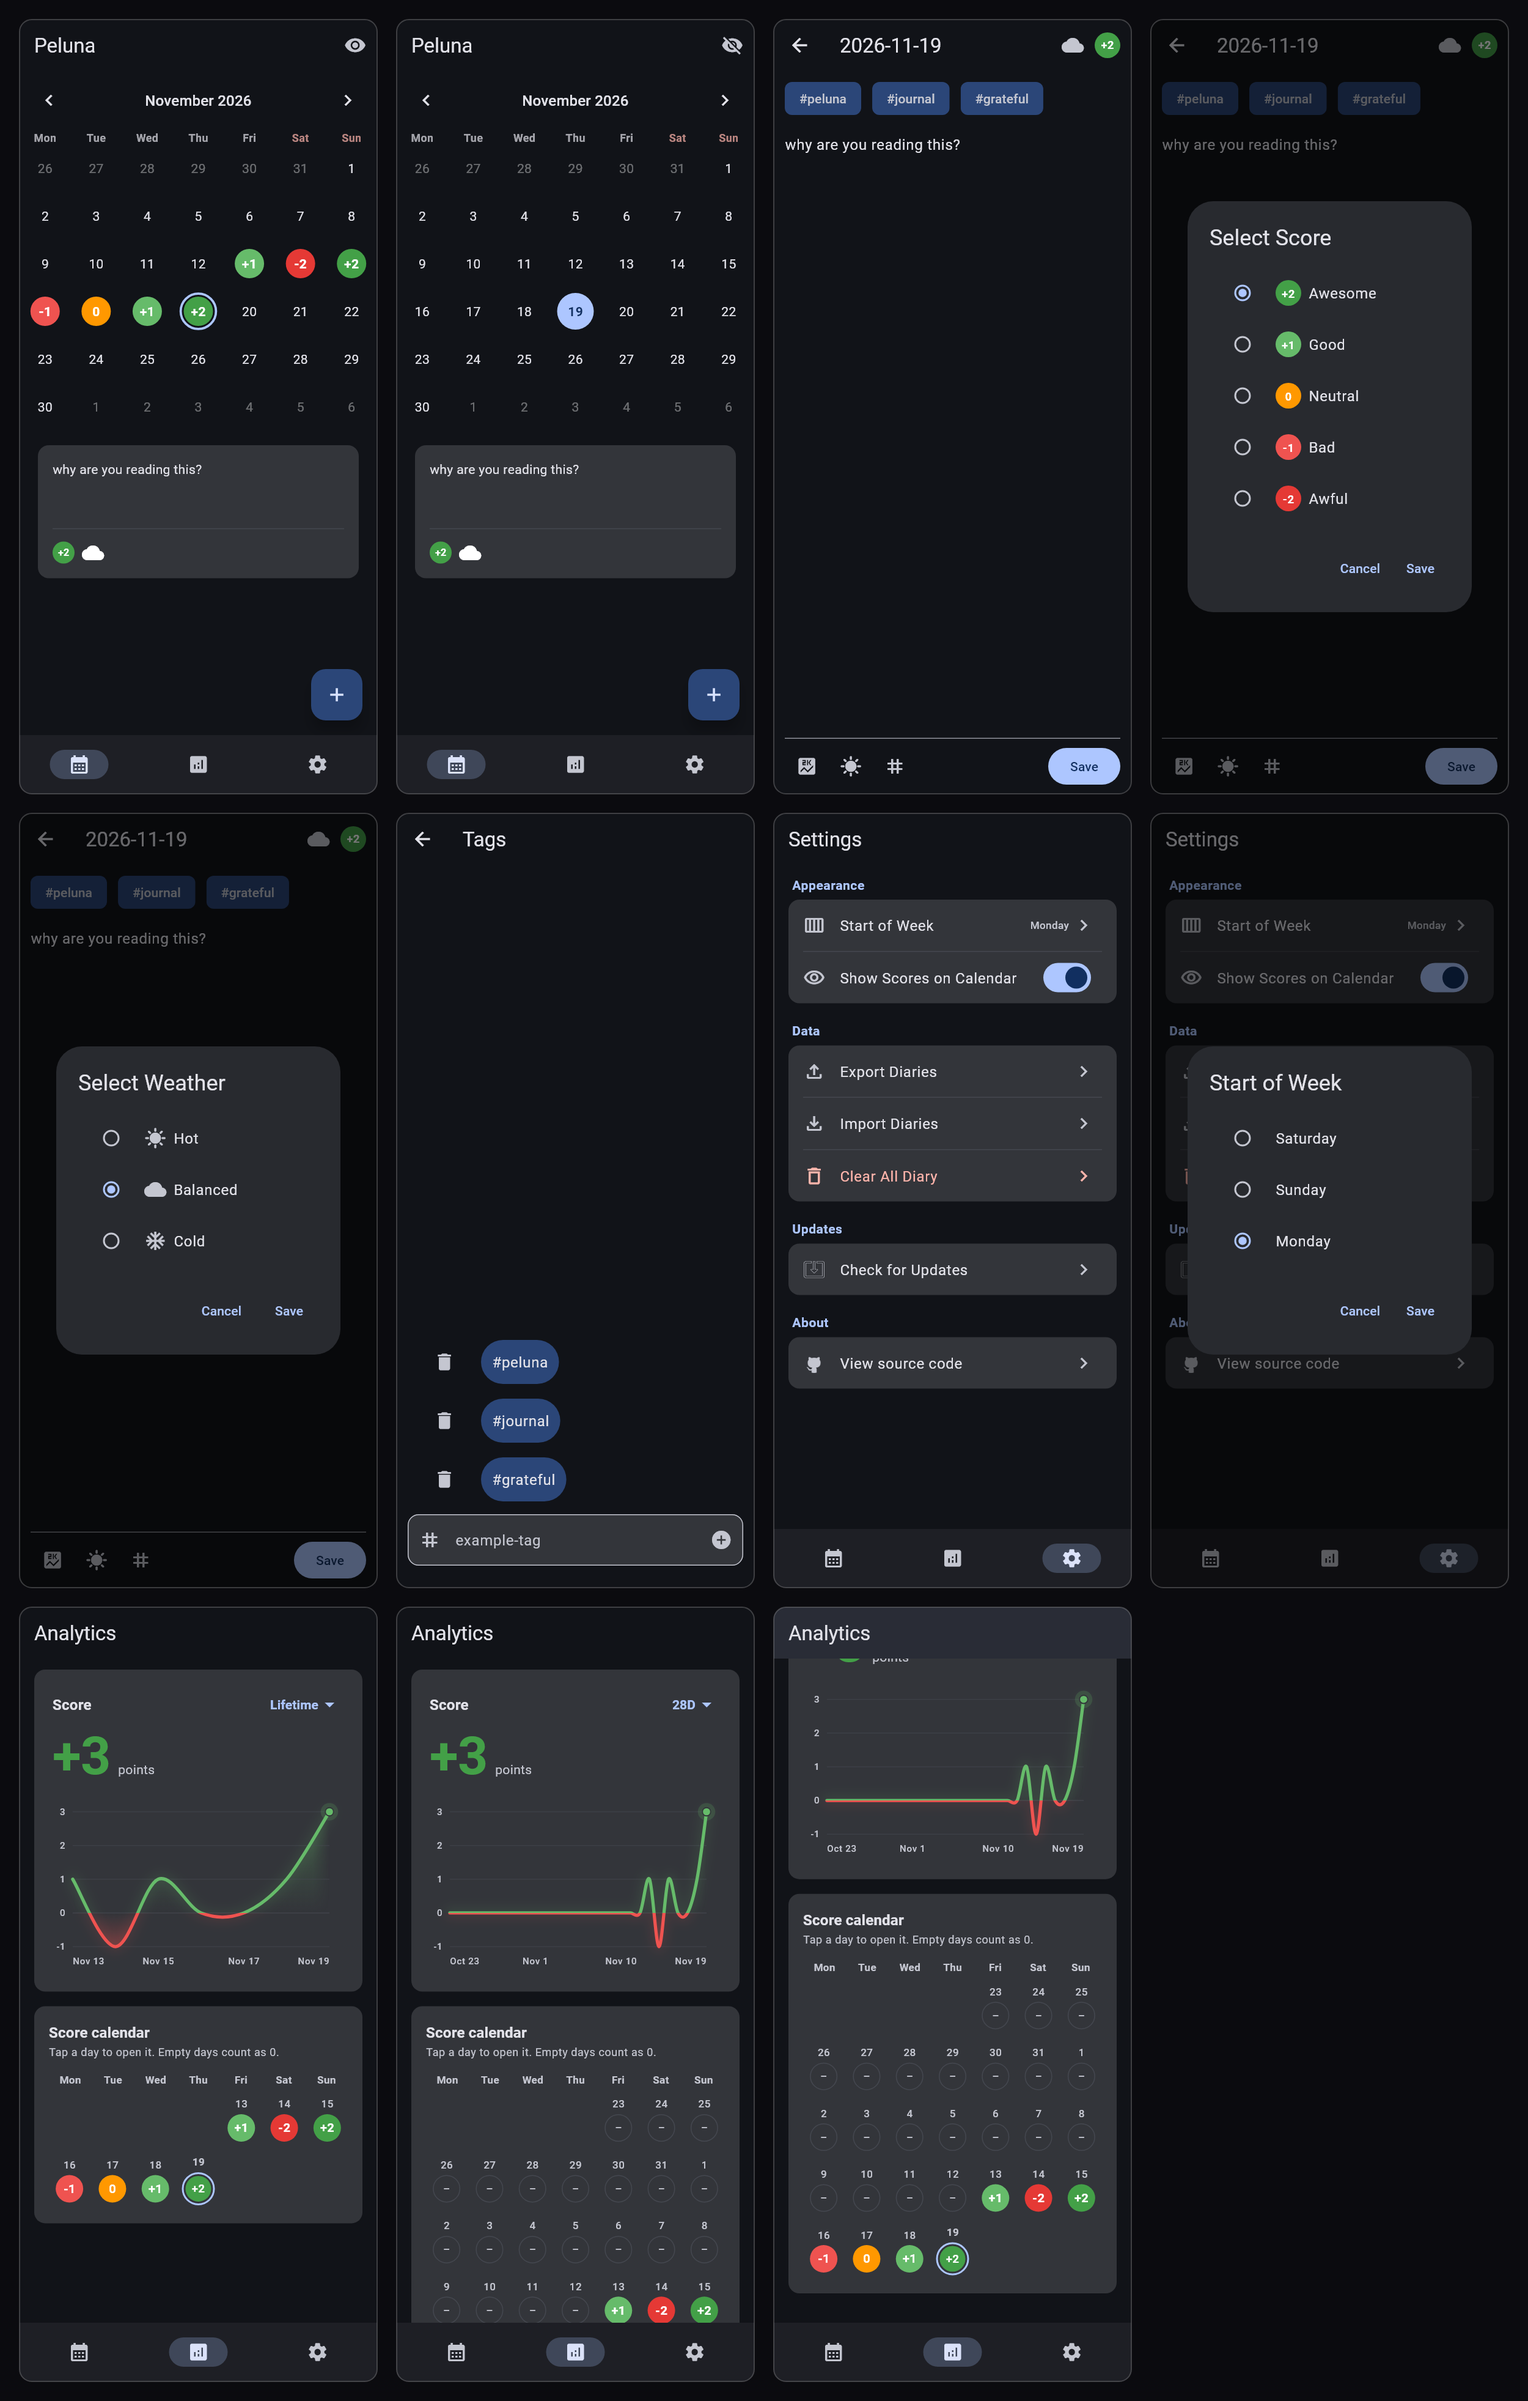
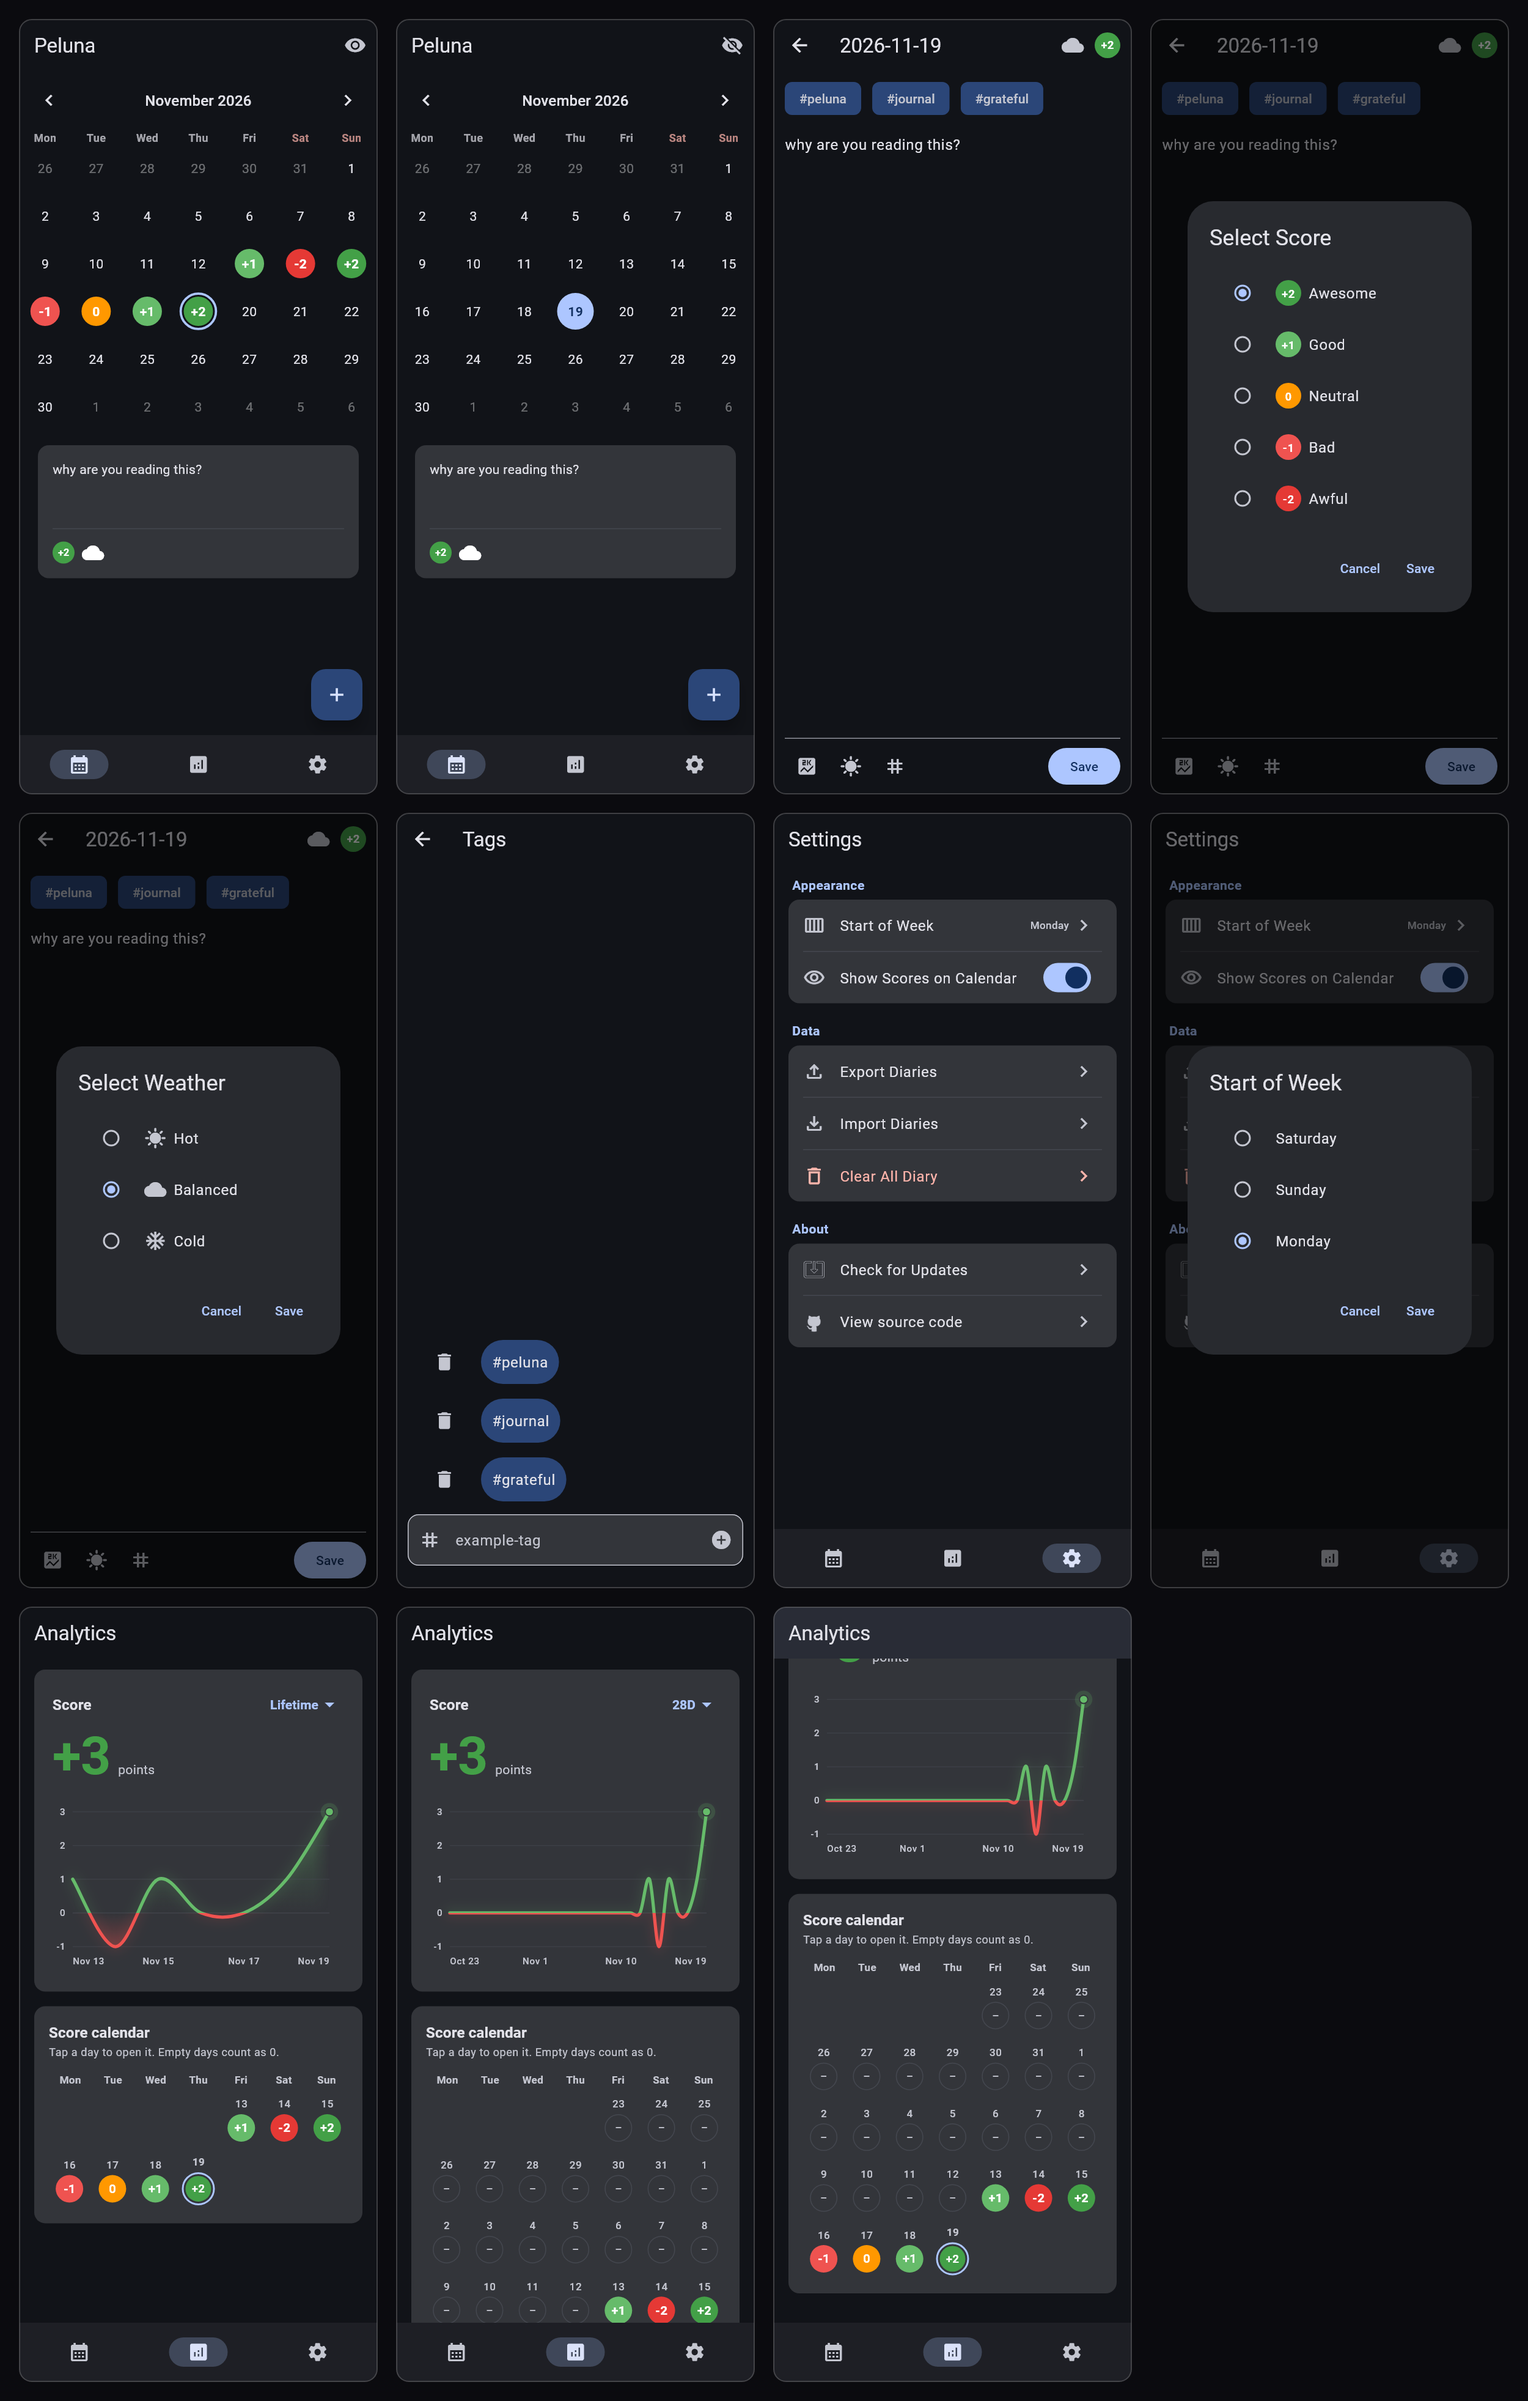
refactor: merge update check into About settings
Show Check for Updates above View source code in one About card while keeping the update row Android-only. Regenerate the gallery.

Changed region(s): [[0.4992, 0.5283, 0.7488, 0.5904]]

diff --git a/lib/views/widgets/about_settings_section.dart b/lib/views/widgets/about_settings_section.dart
@@ -1,0 +1,105 @@
+import 'package:flutter/material.dart';
+import 'package:flutter_riverpod/flutter_riverpod.dart';
+
+import 'package:peluna/config/app_links.dart';
+import 'package:peluna/providers/app_providers.dart';
+import 'package:peluna/providers/update_providers.dart';
+import 'package:peluna/updates/update_models.dart';
+import 'package:peluna/views/widgets/settings_section.dart';
+import 'package:peluna/views/widgets/update_dialog.dart';
+
+/// Identifies the GitHub source link in widget tests.
+const Key viewSourceCodeTileKey = Key('view-source-code-tile');
+
+class AboutSettingsSection extends ConsumerStatefulWidget {
+  const AboutSettingsSection({super.key});
+
+  @override
+  ConsumerState<AboutSettingsSection> createState() =>
+      _AboutSettingsSectionState();
+}
+
+class _AboutSettingsSectionState extends ConsumerState<AboutSettingsSection> {
+  bool _checking = false;
+
+  Future<void> _checkForUpdates() async {
+    if (_checking) return;
+
+    setState(() => _checking = true);
+    try {
+      final update = await ref.read(updateCheckerProvider).checkForUpdate();
+      if (!mounted) return;
+      setState(() => _checking = false);
+
+      if (update == null) {
+        _showSnack(context, 'Peluna is up to date.');
+      } else {
+        await showUpdateAvailableDialog(context, update);
+      }
+    } on UpdateException catch (error) {
+      if (mounted) _showSnack(context, error.message);
+    } catch (_) {
+      if (mounted) {
+        _showSnack(context, 'Could not check for updates. Try again later.');
+      }
+    } finally {
+      if (mounted && _checking) setState(() => _checking = false);
+    }
+  }
+
+  Future<void> _openSourceCode() async {
+    final opened = await ref
+        .read(externalLinkLauncherProvider)
+        .open(AppLinks.sourceCode);
+
+    if (!opened && mounted) {
+      _showSnack(
+        context,
+        'Could not open GitHub. Check that a browser is available.',
+      );
+    }
+  }
+
+  @override
+  Widget build(BuildContext context) {
+    final supportsAppUpdates = ref.watch(supportsAppUpdatesProvider);
+
+    return SettingsSection(
+      title: 'About',
+      children: [
+        if (supportsAppUpdates)
+          SettingsTile(
+            title: 'Check for Updates',
+            icon: Icons.system_update_alt_outlined,
+            trailing: _checking
+                ? const SizedBox(
+                    width: 20,
+                    height: 20,
+                    child: CircularProgressIndicator(strokeWidth: 2),
+                  )
+                : null,
+            onTap: _checking ? null : _checkForUpdates,
+          ),
+        SettingsTile(
+          key: viewSourceCodeTileKey,
+          title: 'View source code',
+          leading: Image.asset(
+            'assets/github_mark.png',
+            width: 24,
+            height: 24,
+            color: Theme.of(context).colorScheme.onSurfaceVariant,
+          ),
+          onTap: _openSourceCode,
+        ),
+      ],
+    );
+  }
+}
+
+void _showSnack(BuildContext context, String message) {
+  ScaffoldMessenger.of(context)
+    ..clearSnackBars()
+    ..showSnackBar(
+      SnackBar(content: Text(message), behavior: SnackBarBehavior.floating),
+    );
+}

diff --git a/lib/views/pages/settings_page.dart b/lib/views/pages/settings_page.dart
@@ -6,21 +6,16 @@ import 'package:flutter/material.dart';
 import 'package:flutter_riverpod/flutter_riverpod.dart';
 import 'package:share_plus/share_plus.dart';
 
-import 'package:peluna/config/app_links.dart';
 import 'package:peluna/models/week_start.dart';
 import 'package:peluna/providers/app_providers.dart';
 import 'package:peluna/providers/settings_providers.dart';
-import 'package:peluna/providers/update_providers.dart';
 import 'package:peluna/utils/utils.dart';
+import 'package:peluna/views/widgets/about_settings_section.dart';
 import 'package:peluna/views/widgets/settings_section.dart';
-import 'package:peluna/views/widgets/update_settings_section.dart';
 import 'package:peluna/views/widgets/week_start_menu_widget.dart';
 
 /// Identifies the score visibility switch in widget tests.
 const Key showScoreOnCalendarSwitchKey = Key('show-scores-on-calendar-switch');
-
-/// Identifies the GitHub source link in widget tests.
-const Key viewSourceCodeTileKey = Key('view-source-code-tile');
 
 class SettingsPage extends ConsumerWidget {
   const SettingsPage({super.key});
@@ -29,7 +24,6 @@ class SettingsPage extends ConsumerWidget {
   Widget build(BuildContext context, WidgetRef ref) {
     final weekStart = ref.watch(weekStartProvider);
     final showScore = ref.watch(showCalendarScoreProvider);
-    final supportsAppUpdates = ref.watch(supportsAppUpdatesProvider);
 
     return Align(
       alignment: Alignment.topCenter,
@@ -95,23 +89,7 @@ class SettingsPage extends ConsumerWidget {
                     ),
                   ],
                 ),
-                if (supportsAppUpdates) const UpdateSettingsSection(),
-                SettingsSection(
-                  title: 'About',
-                  children: [
-                    SettingsTile(
-                      key: viewSourceCodeTileKey,
-                      title: 'View source code',
-                      leading: Image.asset(
-                        'assets/github_mark.png',
-                        width: 24,
-                        height: 24,
-                        color: Theme.of(context).colorScheme.onSurfaceVariant,
-                      ),
-                      onTap: () => _openSourceCode(context, ref),
-                    ),
-                  ],
-                ),
+                const AboutSettingsSection(),
               ],
             ),
           ],
@@ -127,19 +105,6 @@ void _showSnack(BuildContext context, String message) {
     ..showSnackBar(
       SnackBar(content: Text(message), behavior: SnackBarBehavior.floating),
     );
-}
-
-Future<void> _openSourceCode(BuildContext context, WidgetRef ref) async {
-  final opened = await ref
-      .read(externalLinkLauncherProvider)
-      .open(AppLinks.sourceCode);
-
-  if (!opened && context.mounted) {
-    _showSnack(
-      context,
-      'Could not open GitHub. Check that a browser is available.',
-    );
-  }
 }
 
 Future<void> _pickWeekStart(BuildContext context, WidgetRef ref) async {

diff --git a/lib/views/widgets/settings_section.dart b/lib/views/widgets/settings_section.dart
@@ -4,7 +4,7 @@ import 'package:flutter/material.dart';
 ///
 /// Add new settings to an existing section when possible; create a new
 /// [SettingsSection] when the setting belongs to a different area
-/// (Appearance, Data, Updates, About, ...).
+/// (Appearance, Data, About, ...).
 class SettingsSection extends StatelessWidget {
   const SettingsSection({
     super.key,

diff --git a/test/settings_page_test.dart b/test/settings_page_test.dart
@@ -7,6 +7,7 @@ import 'package:peluna/data/settings_repository.dart';
 import 'package:peluna/providers/app_providers.dart';
 import 'package:peluna/utils/external_link_launcher.dart';
 import 'package:peluna/views/pages/settings_page.dart';
+import 'package:peluna/views/widgets/about_settings_section.dart';
 
 import 'support/test_harness.dart';
 

diff --git a/AGENTS.md b/AGENTS.md
@@ -34,7 +34,7 @@ CI pins Flutter 3.50.0 (Dart 3.14) and uses the committed lockfile. `flutter ana
 - `Diary.fromJson` intentionally throws when `date` is missing or invalid. Do not restore a `DateTime.now()` fallback; it used to overwrite today's entry during imports.
 - `lib/config/router.dart` is a 3-branch shell (`/`, `/analytics`, `/settings`); the diary editor and tags are root-navigator routes (`/diary`, `/diary/tags`).
 - `DiaryPage` intentionally blocks swipes to days without entries (except the day it opened on) and auto-saves the day being left. Preserve its custom horizontal drag handling.
-- Settings are grouped into `SettingsSection` cards (`Appearance`, `Data`, `Updates`, `About`) with `SettingsTile` rows from `lib/views/widgets/settings_section.dart`. Put new settings in the matching section, or add a new section/card, instead of a flat list of tiles. The Updates section stays gated by `supportsAppUpdatesProvider`.
+- Settings are grouped into `SettingsSection` cards (`Appearance`, `Data`, `About`) with `SettingsTile` rows from `lib/views/widgets/settings_section.dart`. Put new settings in the matching section, or add a new section/card, instead of a flat list of tiles. The “Check for Updates” row in About stays gated by `supportsAppUpdatesProvider`.
 - Updates only check GitHub and open the release page in the browser. Do not reintroduce `REQUEST_INSTALL_PACKAGES`, FileProvider APK sharing, or an in-app package installer: Play Protect flags that self-update pattern as harmful.
 - Update checks are manual only. Do not add startup or background update checks: Peluna stays offline until the user taps a link. Public URLs live in `lib/config/app_links.dart`.
 
